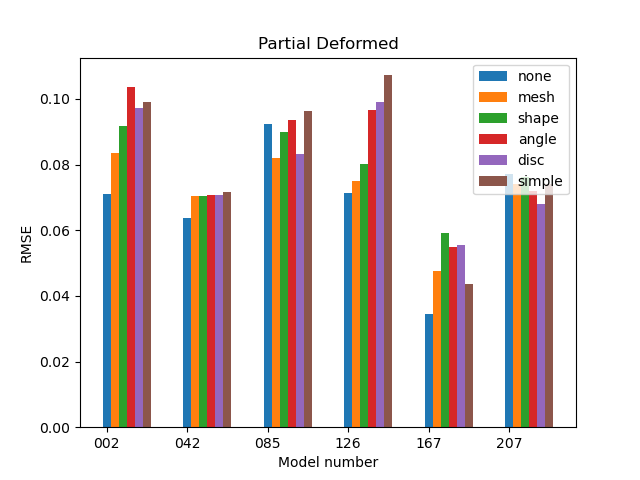
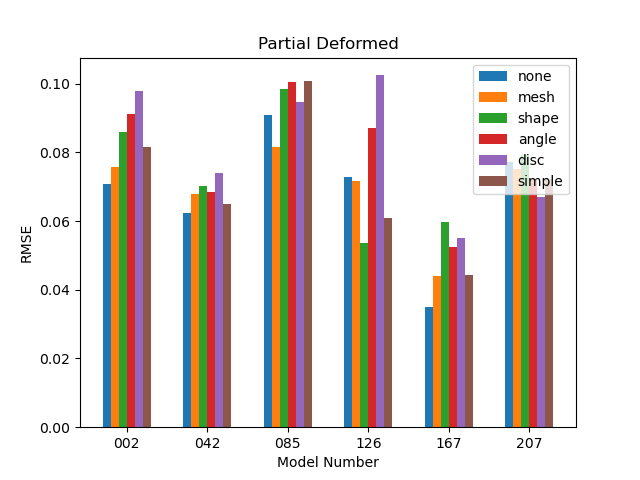
adding changes to the ndp plots

diff --git a/Testing/exterior_boundary_detection/aggregate_data_edge_filtering_rmse.py b/Testing/exterior_boundary_detection/aggregate_data_edge_filtering_rmse.py
@@ -7,14 +7,14 @@ criteria = ['none', 'mesh', 'shape', 'angle', 'disc', 'simple']
 data_types = ['Partial Deformed', 'Partial Non Deformed']
 model_numbers=['002', '042', '085', '126', '167', '207']
 
-# feature_extractor='fcgf'
-feature_extractor='kpfcn'
+feature_extractor='fcgf'
+# feature_extractor='kpfcn'
 
 training_data='partial_deformed'
 epoch='5'
 
-# preprocessing='mutual'
-preprocessing='none'
+preprocessing='mutual'
+# preprocessing='none'
 
 # current_deformation = True
 current_deformation = False
@@ -105,8 +105,8 @@ for data_type in data_types:
         count += 1
 
     plt.title(data_type)
-    plt.xticks([0, 1, 2, 3, 4, 5], model_numbers)
-    plt.xlabel('Model number')
+    plt.xticks(np.array([0, 1, 2, 3, 4, 5]) + 2.5*barWidth, model_numbers)
+    plt.xlabel('Model Number')
     plt.ylabel('RMSE')
     plt.legend(loc = 'upper right')
     data_type_mod = data_type.lower()
